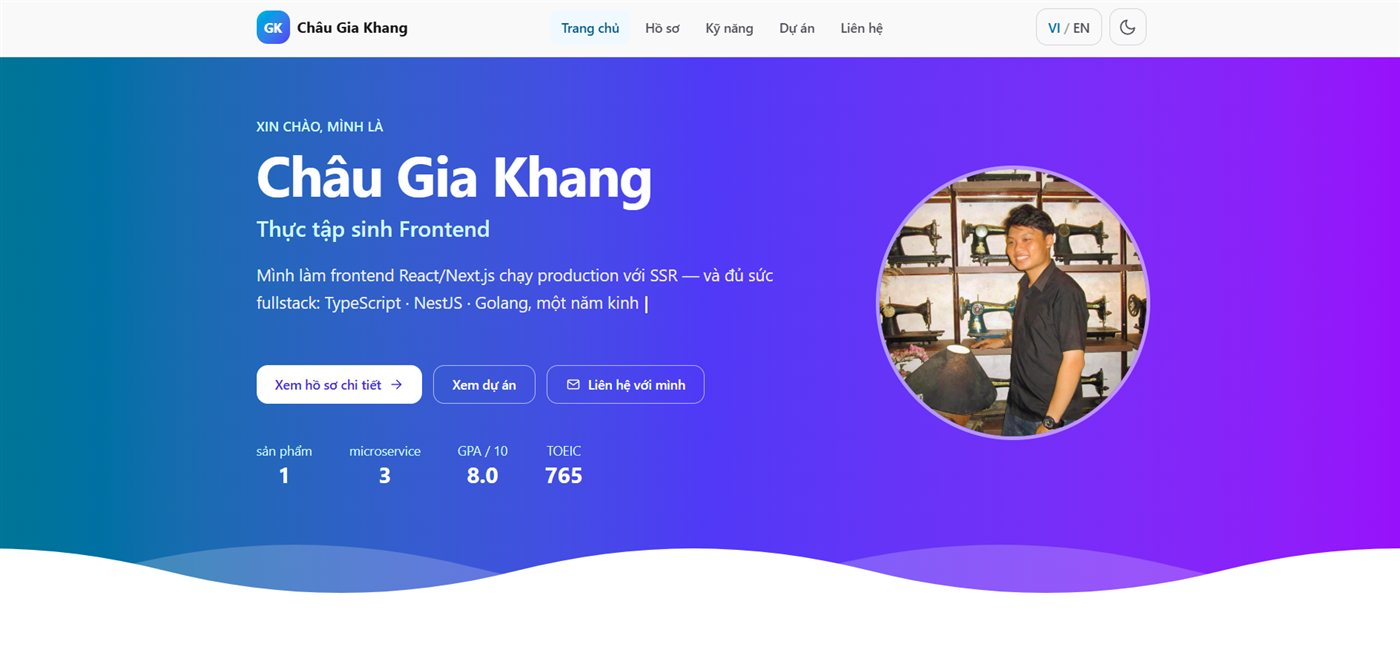
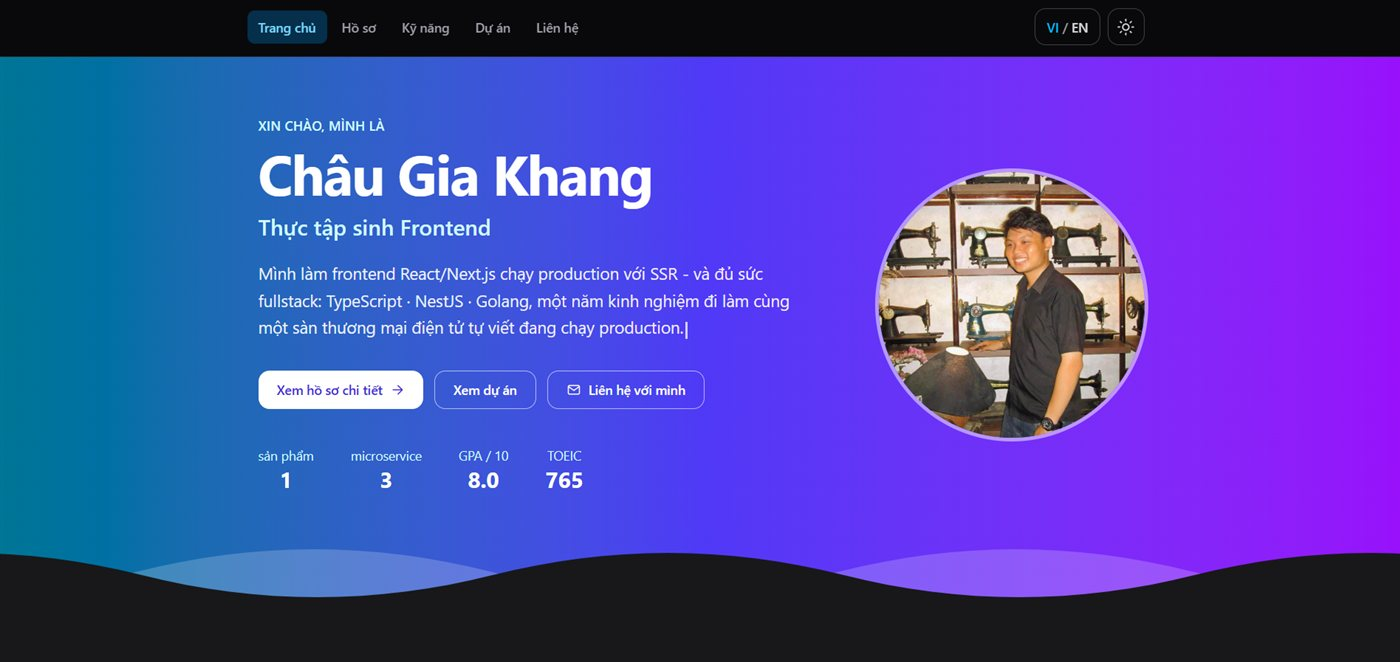
docs: add four interface screenshots to the readme

diff --git a/README.md b/README.md
@@ -6,9 +6,11 @@ CV dạng website (single page application) với 5 trang, song ngữ Việt/Anh
 
 ## Giao diện
 
-| Trang chủ (desktop) | Hồ sơ chi tiết (desktop) |
+| Trang chủ - giao diện tối | Hồ sơ chi tiết - giao diện sáng |
 | --- | --- |
 | ![Trang chủ với hero banner gradient và ảnh đại diện](docs/screenshots/home-desktop.jpg) | ![Trang hồ sơ với thông tin cá nhân và mục tiêu nghề nghiệp](docs/screenshots/resume-desktop.jpg) |
+| **Chi tiết dự án trong hộp thoại** | **Menu điều hướng ở khổ mobile** |
+| ![Hộp thoại chi tiết dự án Chat Service mở đè lên trang Dự án](docs/screenshots/projects-modal.jpg) | ![Menu hamburger đang mở trên màn hình nhỏ](docs/screenshots/mobile-menu.png) |
 
 ## Công nghệ
 
